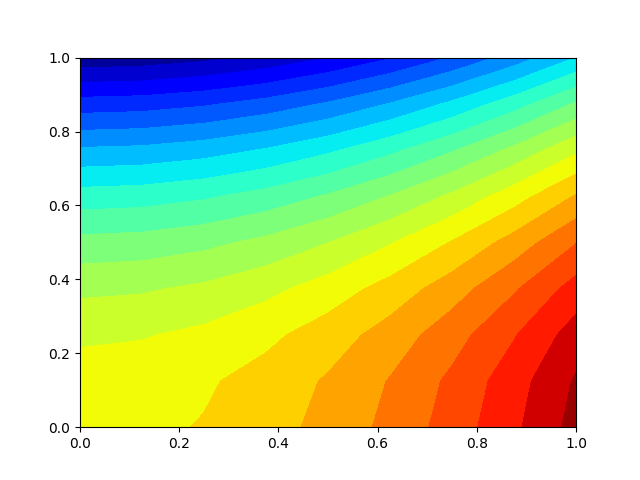
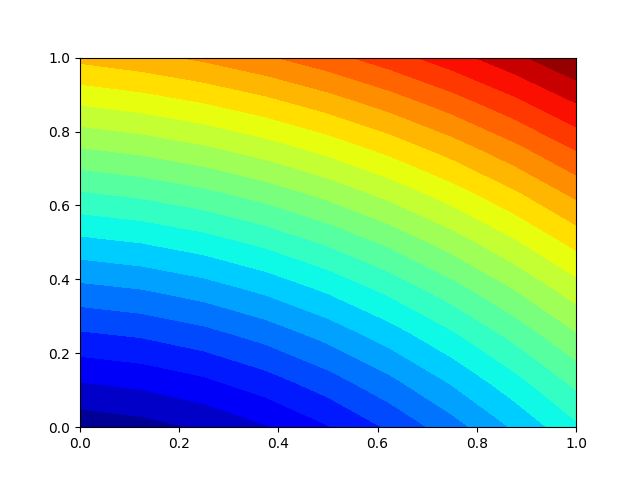
Fixes nonlinear Poisson eqn.

diff --git a/src/dl_solver_poisson.py b/src/dl_solver_poisson.py
@@ -6,10 +6,16 @@ from src.utils.plotting import save_contour_from_model
 
 
 def _pde(x, u):
+    du_x = dde.grad.jacobian(u, x, i=0, j=0)
+    du_y = dde.grad.jacobian(u, x, i=0, j=1)
     du_xx = dde.grad.hessian(u, x, i=0, j=0)
     du_yy = dde.grad.hessian(u, x, i=1, j=1)
 
-    return - du_xx - u * du_yy + 2 - 4 * u
+    return (
+            - (1 + u * u) * du_xx - 2 * u * du_x * du_x
+            - (1 + u * u) * du_yy - 2 * u * du_y * du_y
+            + 10 * x[:, 0:1] + 20 * x[:, 1:] + 10
+    )
 
 
 def _boundary(_, on_boundary):
@@ -17,8 +23,8 @@ def _boundary(_, on_boundary):
 
 
 def _func(x):
-    # 1 + x^2 - 2*y^2
-    return 1. + x[:, 0:1] * x[:, 0:1] - 2 * x[:, 1:] * x[:, 1:]
+    # 1 + x + 2*y
+    return 1. + x[:, 0:1] + 2 * x[:, 1:]
 
 
 def solve_poisson_with_dl(lightweight=False):
@@ -35,13 +41,14 @@ def solve_poisson_with_dl(lightweight=False):
         num_domain=1200,
         num_boundary=120,
         num_test=10000,
-        solution=_func,
+        # solution=_func,
     )
 
     # NN
+    layer_size = [2] + [32] + [64] + [256] + [64] + [32] + [1]
     activation = 'tanh'
     initializer = 'Glorot uniform'
-    net = dde.maps.FNN([2] + [50] * 4 + [1], activation, initializer)
+    net = dde.maps.FNN(layer_size, activation, initializer)
     model = dde.Model(data, net)
 
     # Train NN

diff --git a/src/fem_solver_poisson.py b/src/fem_solver_poisson.py
@@ -15,6 +15,7 @@ from src.utils.plotting import save_contour
 
 
 def q(u):
+    "Return nonlinear coefficient"
     return 1 + u ** 2
 
 
@@ -24,7 +25,7 @@ def solve_poisson_with_fem(lightweight=False):
     V = fs.FunctionSpace(mesh, 'P', 1)
 
     # Define boundary condition
-    u_code = 'x[0]*x[0] - 2 * x[1]* x[1] + 1'
+    u_code = 'x[0] + 2*x[1] + 1'
     u_D = fs.Expression(u_code, degree=2)
 
     def boundary(x, on_boundary):
@@ -37,7 +38,7 @@ def solve_poisson_with_fem(lightweight=False):
     v = fs.TestFunction(V)
 
     # f = fs.Expression(f_code, degree=2)
-    f_code = '4*x[0]*x[0] - 8 * x[1]* x[1] + 2'
+    f_code = '-10*x[0] - 20*x[1] - 10'
     f = fs.Expression(f_code, degree=2)
 
     F = q(u) * fs.dot(fs.grad(u), fs.grad(v)) * fs.dx - f * v * fs.dx

diff --git a/README.md b/README.md
@@ -25,13 +25,13 @@ $ python fem_solver_heat2d.py
 $ python dl_solver_heat2d.py
 ```
 
-- Run the FEM solver for the Nonlinear L-shaped Poisson equation:
+- Run the FEM solver for the Nonlinear Poisson equation:
 
 ```
 $ python fem_solver_poisson.py
 ```
 
-- Run the DL solver for the Nonlinear L-shaped Poisson equation:
+- Run the DL solver for the Nonlinear Poisson equation:
 
 ```
 $ python dl_solver_poisson.py
@@ -54,11 +54,11 @@ FEniCS         |  DeepXDE     |
 
 
 
-#### Non-linear L-shaped Poisson equation
+#### Non-linear Poisson equation
 
 FEniCS         |  DeepXDE     |
 :-------------------------:|:-------------------------:|
-![](artifacts/animation_fem_poisson.gif)  |  ![](artifacts/animation_dl_poisson.gif) |
+![](artifacts/fem_poisson.png)  |  ![](artifacts/dl_poisson.png) |
 
 
 ### More examples
